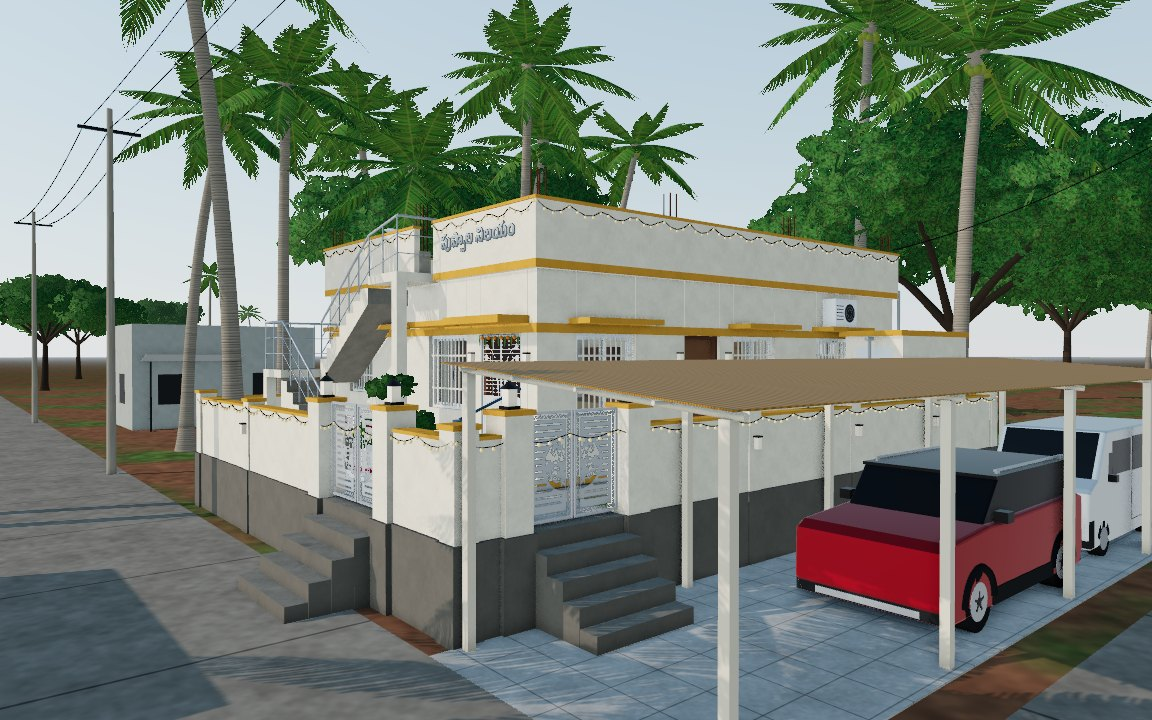
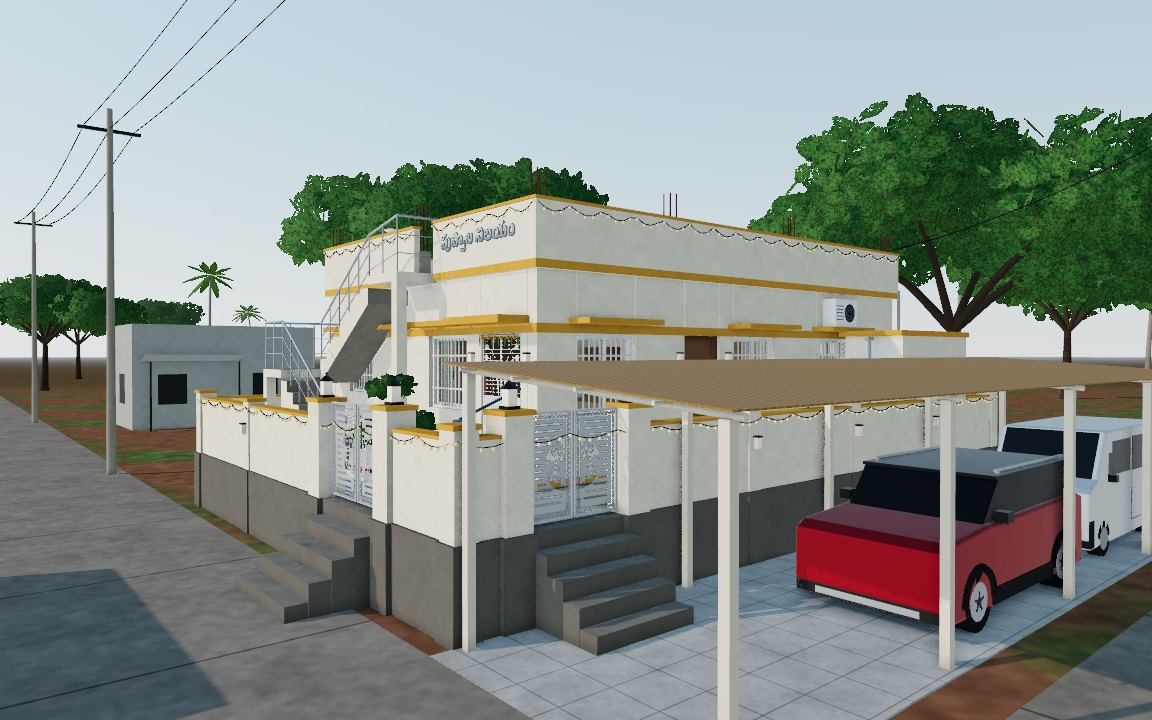
House model: remove coconut palms on and around the plot
The palms have been cut on site; only distant palms remain as the
village backdrop. Renders refreshed.

Claude-Session: https://claude.ai/code/session_0192vssTeX4mK8UEQq28xkYb

diff --git a/public/house/index.html b/public/house/index.html
@@ -424,7 +424,7 @@
     <p class="eyebrow">Village house · East facing corner plot</p>
     <h1>Puppala Nilayam</h1>
     <p class="te-name" lang="te">పుప్పాల నిలయం</p>
-    <p class="lede">Your hand-drawn plan built as a walkable model: two bedrooms, hall, dining, kitchen and puja room, with the outside staircase to the terrace. It sits on the plot from your photos, among the coconut palms and neem trees.</p>
+    <p class="lede">Your hand-drawn plan built as a walkable model: two bedrooms, hall, dining, kitchen and puja room, with the outside staircase to the terrace. It sits on the plot from your photos, with the coconut palms on and around the plot cleared.</p>
     <dl class="facts">
       <div><dt>Built-up</dt><dd>744 sq ft</dd></div>
       <div><dt>Footprint</dt><dd>23′3″ × 32′0″</dd></div>
@@ -490,7 +490,7 @@
     </div>
     <div class="renders">
       <figure class="wide">
-        <img src="renders/street.jpg" alt="The raised house from the road junction at the north-east corner in morning light, with the car shed, compound wall, gates and coconut palms." loading="lazy">
+        <img src="renders/street.jpg" alt="The raised house from the road junction at the north-east corner in morning light, with the car shed, compound wall and gates." loading="lazy">
         <figcaption><b>8:10 AM</b>From the road junction. Morning sun on the east front and main door.</figcaption>
       </figure>
       <figure>
@@ -602,7 +602,6 @@
         <li><strong>Land outside the wall.</strong> The car shed stands on the strip outside the north wall, and the main gate steps take about 3′6″ of the east road edge. Check that both are allowed and that the strip belongs to your plot, not road margin or panchayat land.</li>
         <li><strong>Earth filling.</strong> Raising the yard 3′6″ takes roughly 4,800 cu ft (about 135 m³) of soil, compacted in layers. The compound wall then holds back the fill, so it needs a proper footing and weep holes.</li>
         <li><strong>First floor later.</strong> Tell the engineer now, so the foundations, columns and roof slab are designed to carry a second floor.</li>
-        <li><strong>The coconut palm in your photos.</strong> I could not tell where it stands on the plot, so the palms here are placed at the corners. If it falls inside the footprint it will have to come down.</li>
       </ul>
     </div>
   </section>
@@ -2401,13 +2400,7 @@ function buildTrees() {
   const palms = [[], [], []];
   const uN = (u) => (u < -1 ? u - NGAP : u); // trees across the north road shift with it
   const onPlot = (u, v) => (u > 0 && u < PU && v > 0 && v < PV ? LIFT : 0);
-  const P = (u, v, k, rot, s = 1) => palms[k].push({ p: W(uN(u), v, onPlot(u, v)), rot, s });
-  P(30.4, 1.4, 0, 0.3);
-  P(1.4, 41.7, 1, 2.6);
-  P(-22, 52, 2, 1.2); P(-22, 34, 0, 2.2); P(-26, 44, 1, 0.4); P(36, -21, 2, -0.6); P(44, -30, 0, 3.0);
-  P(-34, -46, 1, 0.8); P(52, 12, 0, 1.4); P(12, 46.5, 2, 3.4); P(46, 36, 2, 1.0);
-  P(-30, -40, 0, 2.0); P(8, -40, 1, 0.2); P(60, 60, 2, 2.2);
-  P(44, 22, 1, 1.1); P(63, 6, 0, 2.7); P(71, 31, 2, 0.6); P(52, 40, 0, 1.9);
+  // the coconut palms on and around the plot have been cut; only distant ones remain below
   const broad = [[], []];
   const B = (u, v, k, rot, s = 1) => broad[k].push({ p: W(uN(u), v, onPlot(u, v)), rot, s });
   B(-42, 40, 0, 0.5, 1.05); B(64, 38, 1, 2.2, 1.1); B(10, 60, 0, 1.4, 0.85); B(-40, -44, 1, 0.3, 0.9); B(-38, 30, 1, 1.8);
